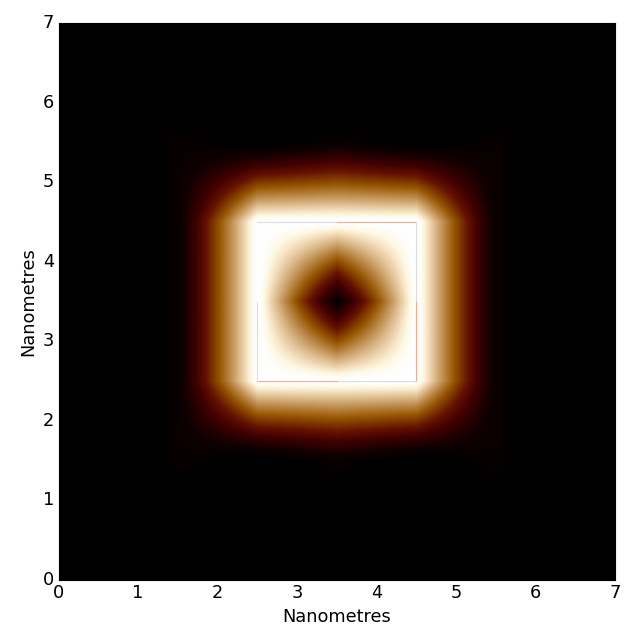
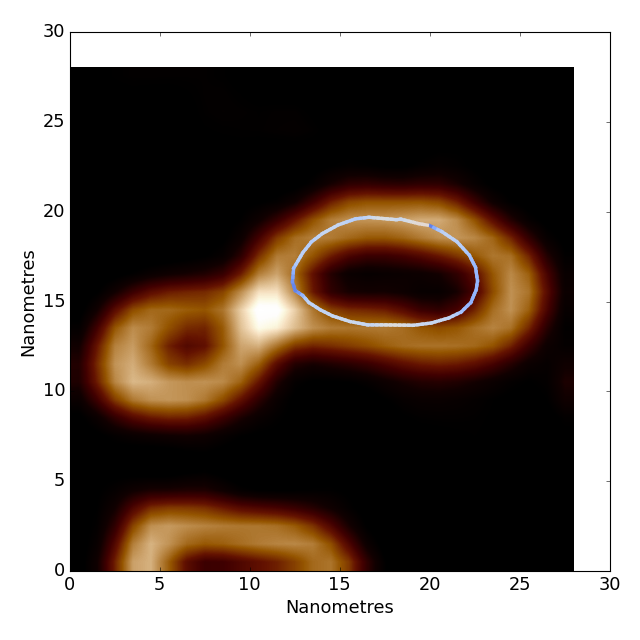
Fix: curvature plotting tests (and simplify!)

diff --git a/tests/conftest.py b/tests/conftest.py
@@ -1774,157 +1774,6 @@ def graincrop_rep_int(rep_int_post_disordered_tracing: TopoStats) -> TopoStats:
 
 
 @pytest.fixture()
-def plot_curvatures_topostats_object() -> TopoStats:
-    """A dummy ``TopoStats`` object for testing ``plottingfuncs.Images.plot_curvatures()."""
-    grain0 = np.array(
-        [
-            [0.0, 0.0, 0.0, 0.0, 0.0, 0.0, 0.0],
-            [0.0, 0.2, 0.1, 0.2, 0.1, 0.2, 0.0],
-            [0.0, 0.2, 1.1, 1.1, 1.1, 0.2, 0.0],
-            [0.0, 0.2, 1.1, 0.2, 1.1, 0.2, 0.0],
-            [0.0, 0.2, 1.1, 1.1, 1.1, 0.2, 0.0],
-            [0.0, 0.2, 0.1, 0.2, 0.1, 0.2, 0.0],
-            [0.0, 0.0, 0.0, 0.0, 0.0, 0.0, 0.0],
-        ]
-    )
-    grain1 = np.array(
-        [
-            [0.1, 0.2, 0.1, 0.2, 0.1, 0.2, 0.1, 0.2],
-            [0.2, 1.2, 1.1, 1.1, 1.1, 1.1, 0.2, 0.1],
-            [0.1, 1.1, 1.1, 0.2, 0.1, 1.2, 1.1, 0.2],
-            [0.2, 1.1, 0.2, 0.1, 0.2, 0.1, 1.1, 0.1],
-            [0.1, 1.1, 0.1, 0.2, 0.1, 0.2, 1.1, 0.2],
-            [0.2, 0.1, 1.1, 0.1, 0.2, 0.1, 1.1, 0.1],
-            [0.1, 0.2, 1.1, 1.1, 1.1, 1.1, 0.1, 0.2],
-            [0.2, 0.1, 0.2, 0.1, 0.2, 0.1, 0.2, 0.1],
-        ]
-    )
-    return TopoStats(
-        image=np.array(
-            [
-                [0.1, 0.2, 0.1, 0.2, 0.1, 0.2, 0.1, 0.2, 0.1, 0.2, 0.1, 0.2, 0.1, 0.2, 0.1, 0.2],
-                [0.1, 0.2, 0.1, 0.2, 0.1, 0.2, 0.1, 0.2, 0.1, 0.2, 0.1, 0.2, 0.1, 0.2, 0.1, 0.2],
-                [0.1, 0.2, 1.1, 1.1, 1.1, 0.2, 0.1, 0.2, 0.1, 0.2, 0.1, 0.2, 0.1, 0.2, 0.1, 0.2],
-                [0.1, 0.2, 1.1, 0.2, 1.1, 0.2, 0.1, 0.2, 0.1, 0.2, 0.1, 0.2, 0.1, 0.2, 0.1, 0.2],
-                [0.1, 0.2, 1.1, 1.1, 1.1, 0.2, 0.1, 0.2, 0.1, 0.2, 0.1, 0.2, 0.1, 0.2, 0.1, 0.2],
-                [0.1, 0.2, 0.1, 0.2, 0.1, 0.2, 0.1, 0.2, 0.1, 0.2, 0.1, 0.2, 0.1, 0.2, 0.1, 0.2],
-                [0.1, 0.2, 0.1, 0.2, 0.1, 0.2, 0.1, 0.2, 0.1, 0.2, 0.1, 0.2, 0.1, 0.2, 0.1, 0.2],
-                [0.1, 0.2, 0.1, 0.2, 0.1, 0.2, 0.1, 0.2, 0.1, 0.2, 0.1, 0.2, 0.1, 0.2, 0.1, 0.2],
-                [0.1, 0.2, 0.1, 0.2, 0.1, 0.2, 0.2, 0.1, 0.1, 0.2, 0.1, 0.2, 0.1, 0.2, 0.1, 0.2],
-                [0.1, 0.2, 0.1, 0.2, 0.1, 0.2, 0.1, 0.2, 0.2, 1.2, 1.1, 1.1, 1.1, 1.1, 0.2, 0.1],
-                [0.1, 0.2, 0.1, 0.2, 0.1, 0.2, 0.2, 0.1, 0.1, 1.1, 1.1, 0.2, 0.1, 1.2, 1.1, 0.2],
-                [0.1, 0.2, 0.1, 0.2, 0.1, 0.2, 0.1, 0.2, 0.2, 1.1, 0.2, 0.1, 0.2, 0.1, 1.1, 0.1],
-                [0.1, 0.2, 0.1, 0.2, 0.1, 0.2, 0.2, 0.1, 0.1, 1.1, 0.1, 0.2, 0.1, 0.2, 1.1, 0.2],
-                [0.1, 0.2, 0.1, 0.2, 0.1, 0.2, 0.1, 0.2, 0.2, 0.1, 1.1, 0.1, 0.2, 0.1, 1.1, 0.1],
-                [0.1, 0.2, 0.1, 0.2, 0.1, 0.2, 0.2, 0.1, 0.1, 0.2, 1.1, 1.1, 1.1, 1.1, 0.1, 0.2],
-                [0.1, 0.2, 0.1, 0.2, 0.1, 0.2, 0.1, 0.2, 0.2, 0.1, 0.2, 0.1, 0.2, 0.1, 0.2, 0.1],
-            ]
-        ),
-        grain_crops={
-            0: GrainCrop(
-                image=grain0,
-                mask=np.stack(
-                    (
-                        grain0,
-                        grain0,
-                    ),
-                    axis=2,
-                ),
-                pixel_to_nm_scaling=1,
-                thresholds=[1],
-                filename="Curvature",
-                bbox=[0, 0, 4, 4],
-                padding=1,
-                ordered_trace=OrderedTrace(
-                    molecule_data={
-                        0: Molecule(
-                            splined_coords=np.array(
-                                [
-                                    [2.5, 2.5],
-                                    [2.5, 3.5],
-                                    [2.5, 4.5],
-                                    [3.5, 4.5],
-                                    [4.5, 4.5],
-                                    [4.5, 3.5],
-                                    [4.5, 2.5],
-                                    [3.5, 2.5],
-                                ]
-                            ),
-                            curvature_stats=np.array([0.2, 0.0, 0.2, 0.0, 0.2, 0.0, 0.2, 0.0]),
-                        )
-                    },
-                ),
-            ),
-            1: GrainCrop(
-                image=grain1,
-                mask=np.stack(
-                    (
-                        grain1,
-                        grain1,
-                    ),
-                    axis=2,
-                ),
-                pixel_to_nm_scaling=1,
-                thresholds=[1],
-                filename="Curvature",
-                bbox=[8, 8, 15, 15],
-                padding=1,
-                ordered_trace=OrderedTrace(
-                    molecule_data={
-                        0: Molecule(
-                            splined_coords=np.array(
-                                [
-                                    [1.5, 1.5],
-                                    [1.5, 2.5],
-                                    [1.5, 3.5],
-                                    [1.5, 4.5],
-                                    [1.5, 5.5],
-                                    [2.5, 5.5],
-                                    [2.5, 6.5],
-                                    [3.5, 6.5],
-                                    [4.5, 6.5],
-                                    [5.5, 6.5],
-                                    [6.5, 5.5],
-                                    [6.5, 4.5],
-                                    [6.5, 3.5],
-                                    [6.5, 2.5],
-                                    [5.5, 2.5],
-                                    [4.5, 1.5],
-                                    [3.5, 1.5],
-                                    [2.5, 1.5],
-                                ],
-                            ),
-                            curvature_stats=np.array(
-                                [
-                                    0.1,
-                                    0.2,
-                                    0.1,
-                                    0.2,
-                                    0.1,
-                                    0.2,
-                                    0.1,
-                                    0.2,
-                                    0.1,
-                                    0.2,
-                                    0.1,
-                                    0.2,
-                                    0.1,
-                                    0.2,
-                                    0.1,
-                                    0.2,
-                                    0.1,
-                                    0.2,
-                                ]
-                            ),
-                        )
-                    },
-                ),
-            ),
-        },
-    )
-
-
[email redacted]()
 def topostats_object_small_grain() -> TopoStats:
     """A ``TopoStats`` object with a grain < 10 pixels."""
     image = np.asarray(

diff --git a/tests/test_plottingfuncs.py b/tests/test_plottingfuncs.py
@@ -81,7 +81,7 @@ rng = np.random.default_rng()
 
 
 @pytest.mark.mpl_image_compare(baseline_dir="resources/img/")
-def test_plot_curvatures(plot_curvatures_topostats_object: TopoStats, tmp_path: Path) -> None:
+def test_plot_curvatures(minicircle_small_topostats: TopoStats, tmp_path: Path) -> None:
     """Test ``plottingfuncs.Images.plot_curvatures()``."""
     fig, _ = Images(
         np.array([[0, 0], [0, 0]]),
@@ -91,8 +91,8 @@ def test_plot_curvatures(plot_curvatures_topostats_object: TopoStats, tmp_path: 
         savefig_dpi=200,
         core_set=True,
     ).plot_curvatures(
-        image=plot_curvatures_topostats_object.image,
-        grain_crops=plot_curvatures_topostats_object.grain_crops,
+        image=minicircle_small_topostats.image,
+        grain_crops=minicircle_small_topostats.grain_crops,
         colourmap_normalisation_bounds=[-0.2, 0.2],
     )
     return fig
@@ -106,9 +106,7 @@ def test_plot_curvatures(plot_curvatures_topostats_object: TopoStats, tmp_path: 
         pytest.param(1, id="grain 1"),
     ],
 )
-def test_plot_curvatures_individual_grain(
-    grain: int, plot_curvatures_topostats_object: TopoStats, tmp_path: Path
-) -> None:
+def test_plot_curvatures_individual_grain(grain: int, minicircle_small_topostats: TopoStats, tmp_path: Path) -> None:
     """Test ``plottingfuncs.Images.plot_curvatures()``."""
     fig, _ = Images(
         np.array([[0, 0], [0, 0]]),
@@ -118,7 +116,7 @@ def test_plot_curvatures_individual_grain(
         savefig_dpi=200,
         core_set=True,
     ).plot_curvatures_individual_grain(
-        grain_crop=plot_curvatures_topostats_object.grain_crops[grain],
+        grain_crop=minicircle_small_topostats.grain_crops[grain],
         grain_number=grain,
         colourmap_normalisation_bounds=[-0.2, 0.2],
     )